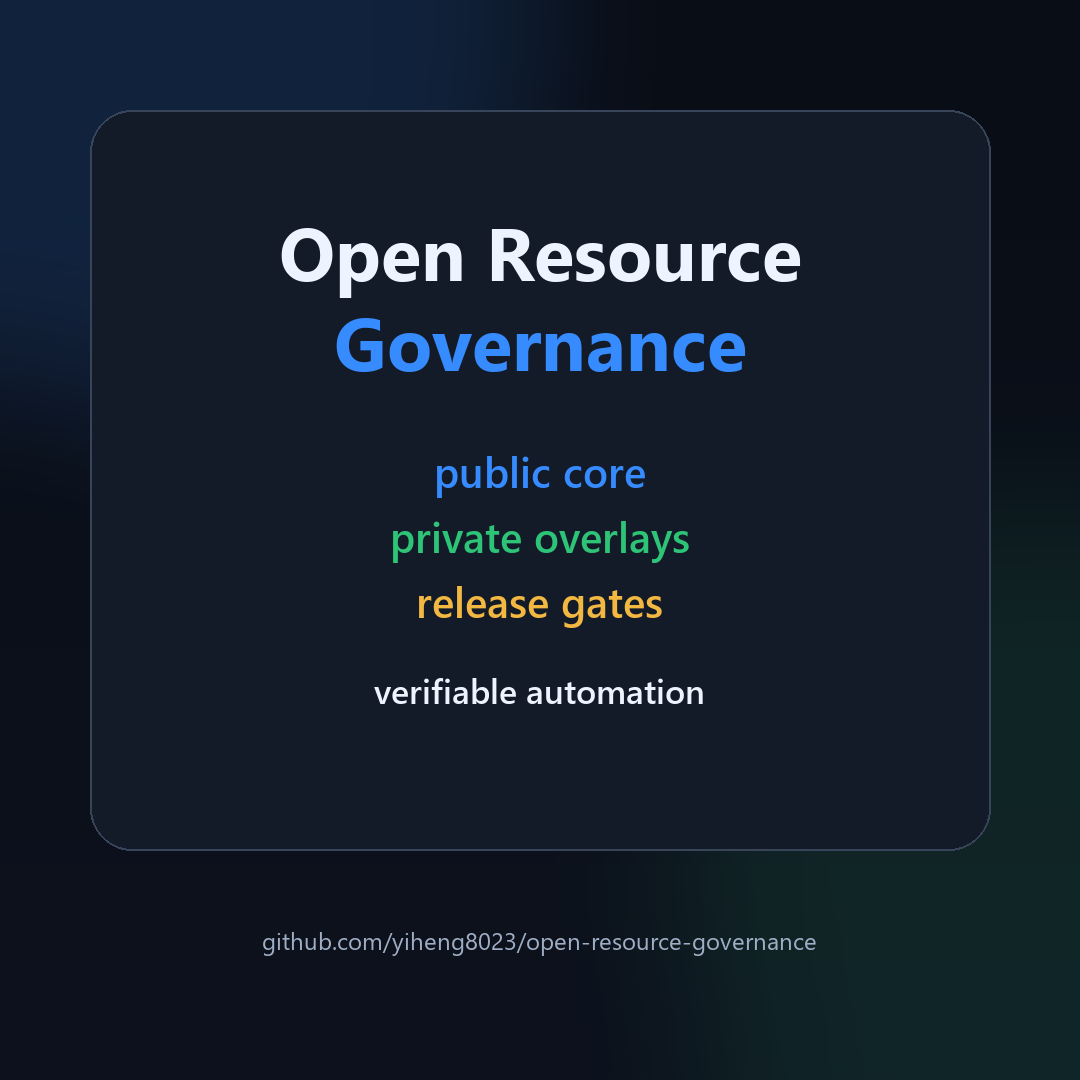
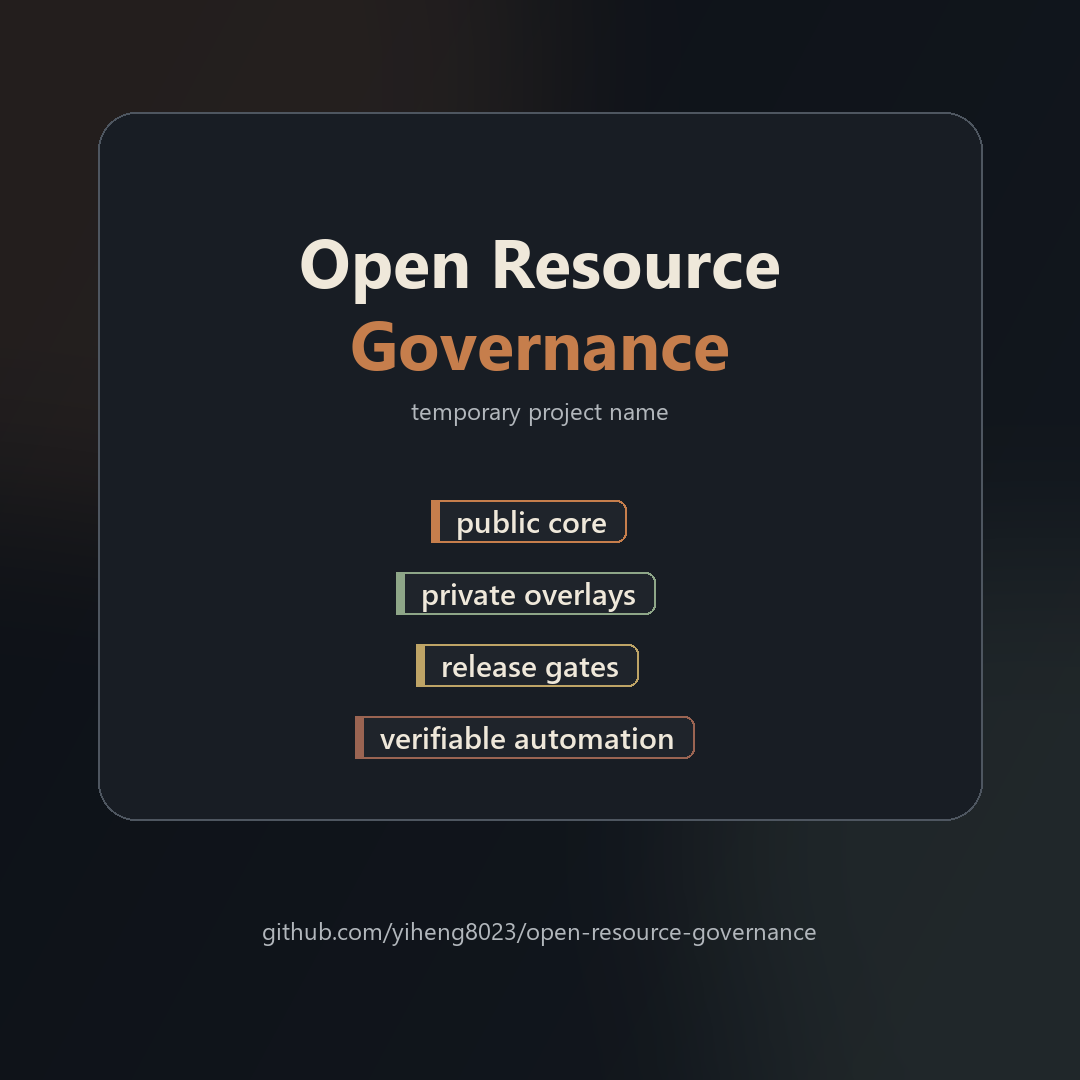
Refine launch visuals and add naming campaign

diff --git a/scripts/verify.py b/scripts/verify.py
@@ -20,6 +20,7 @@ REQUIRED_FILES = [
     ".github/ISSUE_TEMPLATE/boundary-question.yml",
     ".github/ISSUE_TEMPLATE/resource-lane-suggestion.yml",
     ".github/ISSUE_TEMPLATE/docs-improvement.yml",
+    ".github/ISSUE_TEMPLATE/name-suggestion.yml",
     ".github/pull_request_template.md",
     ".github/workflows/validate.yml",
     "data/repositories.json",
@@ -31,6 +32,7 @@ REQUIRED_FILES = [
     "docs/free-promotion-playbook.md",
     "docs/launch-video-brief.md",
     "docs/launch-video-assets.md",
+    "docs/naming-campaign.md",
     "docs/contact-and-social.md",
     "docs/assets/launch-video/github-repository-home.png",
     "docs/assets/launch-video/readme-system-map.png",

diff --git a/docs/launch-video-brief.md b/docs/launch-video-brief.md
@@ -1,8 +1,9 @@
 # Launch Video Brief
 
 This brief supports a lightweight first announcement video for
-`open-resource-governance`. It is intentionally simple, public-safe, and usable
-with video-generation tools, manual screen recording, or a basic slide editor.
+`open-resource-governance`, which is a provisional repository slug and
+temporary project name. It is intentionally simple, public-safe, and usable with
+video-generation tools, manual screen recording, or a basic slide editor.
 
 ## Goal
 
@@ -21,7 +22,8 @@ lead with a plain subtitle before the formal name:
 > configuration, and bookmark taxonomies.
 
 Then name the repository as `open-resource-governance` for people who want to
-find or star it on GitHub.
+find or star it on GitHub. State clearly that the name is temporary and may
+change after public naming feedback.
 
 ## Recommended format
 
@@ -71,10 +73,10 @@ Music is optional. If used, prefer low-volume royalty-free ambient, soft lo-fi,
 or light documentary synth with no vocals. Avoid copyrighted tracks and keep
 the license/source note with the final export.
 
-Use the project name as a text wordmark. Do not use `®` or imply registered
-trademark status unless registration is complete. If a project logo is added
-later, confirm it is intended for public project use before including it in
-generated assets.
+Use the temporary project name as a text wordmark. Do not use `®` or imply
+registered trademark status unless registration is complete. If a project logo
+is added later, confirm it is intended for public project use before including
+it in generated assets.
 
 ## 30-second storyboard
 
@@ -99,7 +101,7 @@ generated assets.
 ## Voiceover draft
 
 ```text
-Open Resource Governance is a small public-safe hub for a bigger idea:
+Open Resource Governance is the temporary name for a small public-safe hub for a bigger idea:
 useful resources, agent skills, AI collaboration configuration, and bookmark
 taxonomies should be reusable without leaking private state.
 
@@ -107,26 +109,28 @@ The model is simple: public core, private overlays, clear release gates, and
 verifiable automation.
 
 This repository maps the lanes, explains the boundaries, and gives contributors
-a safe place to improve the system.
+a safe place to improve the system. The name may change after public naming
+feedback.
 ```
 
 ## Chinese voiceover draft
 
 ```text
-Open Resource Governance 是一个公开安全的总入口，用来承载一个更大的想法：
+Open Resource Governance 是这个项目的暂定名。它是一个公开安全的总入口，用来承载一个更大的想法：
 有价值的资源、agent skills、AI 协作配置和书签分类，应该可以复用，
 但不能泄露私人状态。
 
 核心模型很简单：公开核心，私有 overlay，清晰发布闸门，可验证自动化。
 
-这个仓库负责解释各条链路、边界和贡献方式，让后续协作更安全。
+这个仓库负责解释各条链路、边界和贡献方式，让后续协作更安全。名称未来可能根据公开征名反馈变更。
 ```
 
 ## Video AI prompt
 
 ```text
 Create a clean 30-second technical launch video for an open-source GitHub
-project called "Open Resource Governance".
+project currently using the temporary name "Open Resource Governance". Make it
+clear that the name is provisional and may change after public naming feedback.
 
 Use case: public launch announcement for GitHub, X, Weibo, and YouTube Shorts.
 Scene/background: minimal dark-mode developer workspace with abstract repository
@@ -151,9 +155,10 @@ Text:
 "Private overlays"
 "Release gates"
 "Verifiable automation"
-"Open Resource Governance"
+"Open Resource Governance (temporary name)"
 Constraints: no real people, no private data, no credentials, no account pages,
-no browser history, no exaggerated claims, no security certification claims.
+no browser history, no exaggerated claims, no security certification claims, no
+claim that the temporary name is final.
 Avoid: hype, fake dashboards, noisy cyber visuals, corporate stock footage.
 ```
 
@@ -162,11 +167,12 @@ Avoid: hype, fake dashboards, noisy cyber visuals, corporate stock footage.
 English:
 
 ```text
-I just opened Open Resource Governance:
+I just opened Open Resource Governance (temporary name):
 a public-safe hub for resource discovery, curated agent skills, portable AI
 collaboration configuration, and bookmark taxonomy.
 
 Principle: public core, private overlays, release gates, verifiable automation.
+The name may change after public naming feedback.
 ```
 
 Optional link line:
@@ -184,10 +190,11 @@ Contact: https://github.com/yiheng8023/open-resource-governance/blob/main/docs/c
 Chinese:
 
 ```text
-我刚公开了 Open Resource Governance：
+我刚公开了 Open Resource Governance（暂定名）：
 一个公开安全的总入口，用来治理资源发现、精选 agent skills、AI 协作配置模板和书签分类。
 
 原则：公开核心，私有 overlay，发布闸门，可验证自动化。
+名称未来可能根据公开征名反馈变更。
 ```
 
 可选链接行：

diff --git a/docs/naming-campaign.md b/docs/naming-campaign.md
@@ -1,0 +1,78 @@
+# Naming Campaign
+
+`open-resource-governance` is a provisional repository slug and temporary
+project name. It is accurate for governance work, but it may be too abstract
+for developers and users encountering the project for the first time.
+
+The project may be renamed after public feedback.
+
+## Goal
+
+Find a name that is:
+
+- easy to understand without internal context;
+- broad enough for resource discovery, Skills governance, bookmark taxonomy,
+  and portable AI-collaboration configuration;
+- not locked to one agent, vendor, platform, or private workflow;
+- short enough for GitHub, social posts, and video captions;
+- safe from obvious trademark, domain, or project-name conflicts;
+- compatible with the public/private boundary model.
+
+## Submission format
+
+Use the `Name suggestion` issue template and include:
+
+- suggested name;
+- optional slug;
+- one-line explanation;
+- why it fits the project;
+- possible downside or ambiguity;
+- whether you checked obvious GitHub/search/trademark conflicts.
+
+## Evaluation criteria
+
+Naming feedback is a signal, not automatic authority. The final decision should
+consider:
+
+1. clarity for new users;
+2. long-term scope fit;
+3. memorability;
+4. spelling and pronunciation;
+5. searchability;
+6. low collision risk;
+7. low vendor or agent lock-in;
+8. community reaction count and comment quality.
+
+## Voting model
+
+Public votes can use GitHub issue reactions or a pinned discussion if
+Discussions are later enabled.
+
+The highest vote count should not automatically win. The owner keeps the final
+rename gate to avoid names that are popular but confusing, hard to maintain,
+legally risky, too narrow, too broad, or inconsistent with the project boundary.
+
+## Decision outcome
+
+Possible outcomes:
+
+- keep `open-resource-governance` for now;
+- keep the repository slug but use a clearer public subtitle;
+- rename the repository;
+- create a new public-facing brand while preserving this repository as a
+  governance hub;
+- defer the decision until the downstream repositories are more mature.
+
+## Current public wording
+
+Until renamed, refer to the project as:
+
+```text
+Open Resource Governance (temporary name)
+```
+
+Use the repository URL as the stable discovery path:
+
+```text
+https://github.com/yiheng8023/open-resource-governance
+```

diff --git a/docs/promotion-kit.md b/docs/promotion-kit.md
@@ -4,11 +4,11 @@ Use free channels first: GitHub profile, pinned repositories, repository topics,
 
 ## One-line pitch
 
-Open Resource Governance is a modular, public-safe system for discovering useful resources, curating agent skills, maintaining portable AI-collaboration configuration, and managing bookmark taxonomies without leaking private state.
+Open Resource Governance (temporary name) is a modular, public-safe system for discovering useful resources, curating agent skills, maintaining portable AI-collaboration configuration, and managing bookmark taxonomies without leaking private state.
 
 ## Short GitHub profile blurb
 
-Building a modular open-resource governance stack: resource radar, curated agent skills, public/private configuration templates, and official-source bookmark taxonomies. Public core, private overlays, verifiable automation.
+Building a modular open-resource governance stack, currently under the temporary name Open Resource Governance: resource radar, curated agent skills, public/private configuration templates, and official-source bookmark taxonomies. Public core, private overlays, verifiable automation.
 
 ## Repository topics
 
@@ -34,6 +34,8 @@ I am building an open, modular resource-governance stack:
 
 The principle is simple: public core, private overlay, verifiable automation.
 
+Name note: Open Resource Governance is a temporary name and may change after public naming feedback.
+
 GitHub: https://github.com/yiheng8023/open-resource-governance
 
 ## Chinese social post draft
@@ -46,6 +48,8 @@ GitHub: https://github.com/yiheng8023/open-resource-governance
 - 用公开安全的官方来源目录管理书签分类。
 
 核心原则：公开核心，私有 overlay，可验证自动化。
+
+命名说明：Open Resource Governance 是暂定名，未来可能根据公开征名反馈变更。
 
 GitHub: https://github.com/yiheng8023/open-resource-governance
 
@@ -104,3 +108,5 @@ For prepared launch video images, use
 
 For public-safe contact routes and future social-link policy, use
 [`contact-and-social.md`](contact-and-social.md).
+
+For public naming feedback, use [`naming-campaign.md`](naming-campaign.md).

diff --git a/README.md b/README.md
@@ -4,6 +4,9 @@ English | [简体中文](README.zh-CN.md)
 
 Public-safe hub for a modular resource governance system: discover useful public resources, curate agent skills, preserve portable AI-collaboration configuration, and maintain bookmark taxonomies without exposing private state.
 
+Name status: `open-resource-governance` is a provisional repository slug and
+temporary project name. It may change after public naming feedback.
+
 ## Repository Role
 
 This hub explains the system, maps the related repositories, and provides public-facing documentation and promotion material.
@@ -77,6 +80,7 @@ Key docs:
 - [`docs/free-promotion-playbook.md`](docs/free-promotion-playbook.md) — free-channel launch and promotion runbook.
 - [`docs/launch-video-brief.md`](docs/launch-video-brief.md) — short launch video script, storyboard, and AI video prompt.
 - [`docs/launch-video-assets.md`](docs/launch-video-assets.md) — prepared public-safe launch video image assets and usage notes.
+- [`docs/naming-campaign.md`](docs/naming-campaign.md) — public naming feedback process for the temporary project name.
 - [`docs/contact-and-social.md`](docs/contact-and-social.md) — public-safe contact routes and future social-link policy.
 - [`docs/community-feedback-model.md`](docs/community-feedback-model.md) — safe issue/PR feedback model for future public collaboration.
 - [`GOVERNANCE.md`](GOVERNANCE.md) — lightweight maintainer and owner-gate model.

diff --git a/docs/launch-video-assets.md b/docs/launch-video-assets.md
@@ -1,7 +1,9 @@
 # Launch Video Asset Pack
 
 Prepared public-safe image assets for the first
-`open-resource-governance` launch video.
+`open-resource-governance` launch video. The repository slug and displayed
+project name are provisional; assets should not imply that the current name is
+final.
 
 ## Asset list
 
@@ -42,6 +44,7 @@ Suggested call-to-action:
 
 ```text
 GitHub: github.com/yiheng8023/open-resource-governance
+Name note: temporary project name
 ```
 
 ## Music guidance
@@ -63,15 +66,16 @@ without music.
 
 ## Logo and trademark guidance
 
-The current assets use a text wordmark only. Do not use `®` or imply registered
-trademark status unless registration is complete. If the owner later provides a
-project logo, add it only after confirming it is intended for public project
-use.
+The current assets use a text wordmark only and label the name as temporary. Do
+not use `®` or imply registered trademark status unless registration is
+complete. If the owner later provides a project logo, add it only after
+confirming it is intended for public project use.
 
 Safe wording:
 
 ```text
 Open Resource Governance
+Open Resource Governance (temporary name)
 ```
 
 Avoid:

diff --git a/docs/community-feedback-model.md b/docs/community-feedback-model.md
@@ -14,6 +14,8 @@ Useful feedback should improve:
 - launch gates;
 - validation;
 - promotion material;
+- naming clarity while `open-resource-governance` remains a temporary project
+  name;
 - contribution safety.
 
 ## Feedback channels
@@ -23,6 +25,7 @@ Use issue templates for:
 - boundary questions;
 - public-safe resource lane suggestions;
 - documentation improvements.
+- name suggestions.
 
 Use pull requests for:
 
@@ -50,6 +53,7 @@ Recommended labels:
 - `resource-lane`
 - `suggestion`
 - `documentation`
+- `naming`
 - `safety`
 - `needs-owner-decision`
 - `private-overlay`
